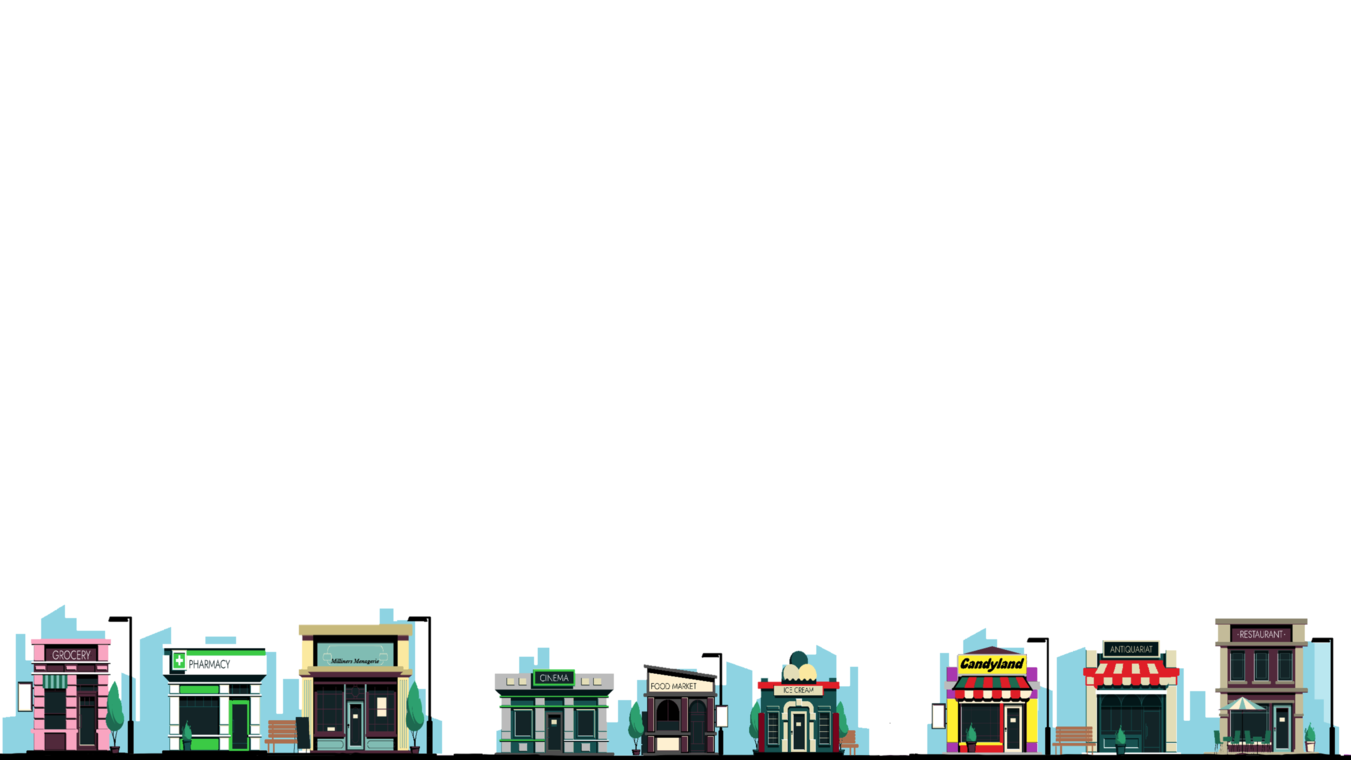
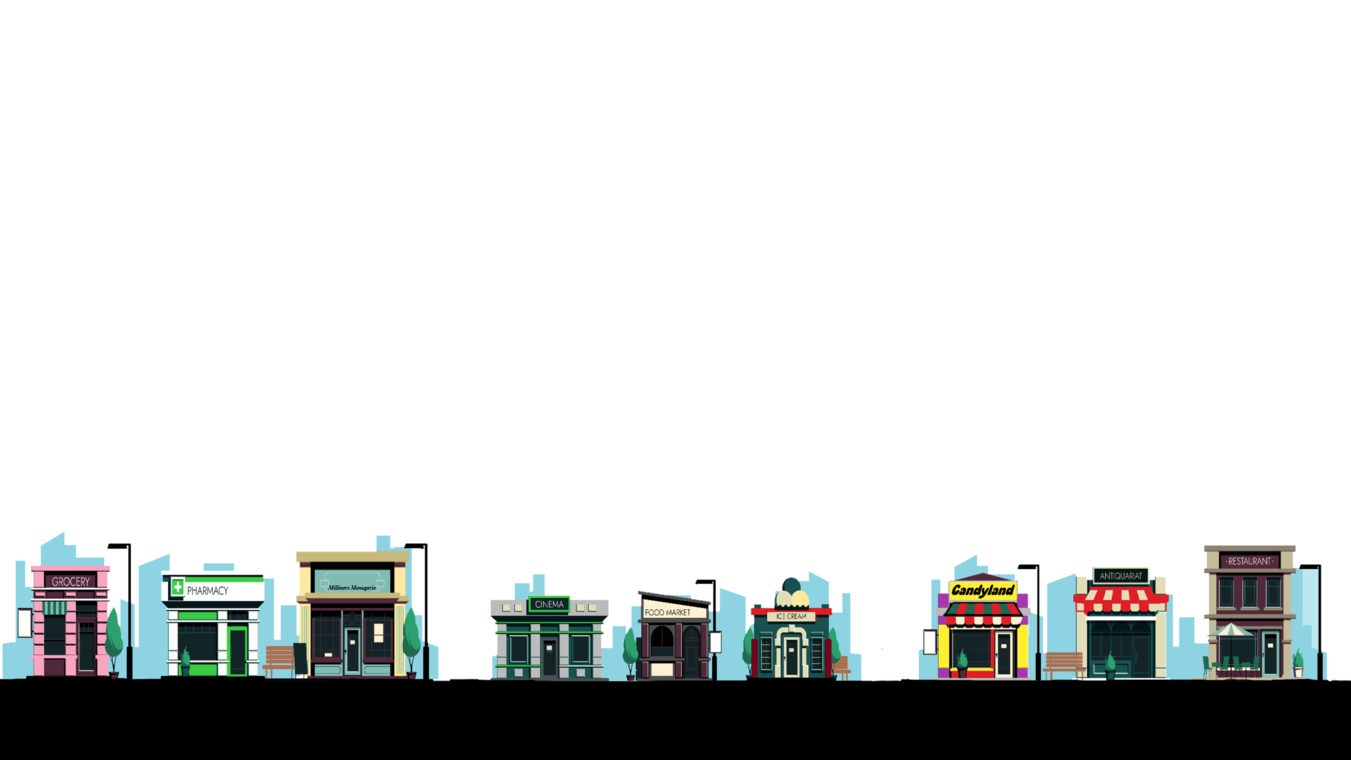
Shop zoom alignment better

Changed region(s): [[0.0, 0.6961, 1.0, 0.9987]]

diff --git a/shadowtheatre.js b/shadowtheatre.js
@@ -947,14 +947,18 @@ function calculatePermittedVertical() {
 function zoomIn(el, targetX, targetY, toShops=false) {
 	let trueCenterX = getTrueCenterX();
 	let targetXRelativeToMiddleOfScreen = targetX - trueCenterX; 
-	let targetXRelativeToLeftOfScreen = targetXRelativeToMiddleOfScreen + HALF_SCREEN_WIDTH;
-	// Hide all arrows first
-	el.style.transformOrigin = targetXRelativeToLeftOfScreen + "px " + targetY + "px";
 	if (toShops) {
+		// Because there's less of a zoom, we need to fudge the transform origin
+		targetXRelativeToMiddleOfScreen *= 1.5;
+		let targetXRelativeToLeftOfScreen = targetXRelativeToMiddleOfScreen + HALF_SCREEN_WIDTH + 35;
+		el.style.transformOrigin = targetXRelativeToLeftOfScreen + "px " + targetY + "px";
 		// Use special zoom and deblur (the latter needs to go on a different element)
 		el.classList.add("zoomInShops");
 		document.querySelector("#area-main .distant-shops").classList.add("deBlur");
 	} else {
+		// Big zoom, no fudge factor required
+		let targetXRelativeToLeftOfScreen = targetXRelativeToMiddleOfScreen + HALF_SCREEN_WIDTH;
+		el.style.transformOrigin = targetXRelativeToLeftOfScreen + "px " + targetY + "px";
 		el.classList.add("zoomIn");
 	}
 }
@@ -1012,7 +1016,7 @@ function changeArea(destArea, destX) {
 		// No fadeout because it's a seamless transition
 	} else if (destArea == "shops") {
 		const zoomTime = 3000;
-		zoomIn(screen, SHOPS_CENTERX, 740, true);
+		zoomIn(screen, SHOPS_CENTERX, 720, true);
 		swapTime += zoomTime;
 		endTime += zoomTime;
 		// No fadeout because it's a seamless transition

diff --git a/index.html b/index.html
@@ -264,7 +264,7 @@
 				transform: scale(1);
 			}
 			100% {
-				transform: scale(4);
+				transform: scale(3);
 			}
 		}
 		.zoomInShops {
@@ -312,6 +312,11 @@
 			display: flex;
 			height: var(--screen-height);
 		}
+
+		/* Only use this for making slider images smaller by adjusting --screen-height. It messes up other stuff like lighthouse zoom.
+		/* .slider .imgbox img {
+			height: var(--screen-height); 
+		} */
 
 		.slider .flexbox .imgbox, .xyslider {
 			position: relative; /* Allow fixed positioning of overlaid images that will stay in the same position relative to the background as it moves */
